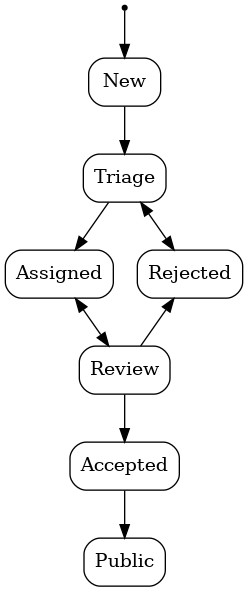
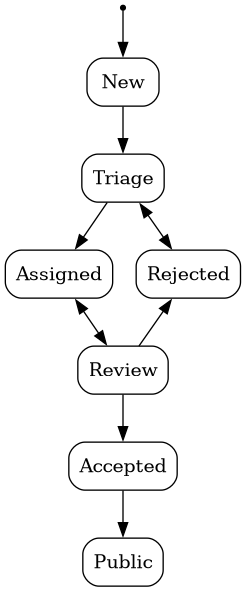
Deploy docs for main 296f7306d63a27ada3a170a480b35a1ffbeb1cee

diff --git a/main/api/satellite.html b/main/api/satellite.html
@@ -926,14 +926,14 @@ The drift is estimated from the device’s Time Drift Rate (TDR), configured thr
 
 <dl class="cpp var">
 <dt class="sig sig-object cpp" id="_CPPv4N24hubble_sat_packet_frames5frameE">
-<span id="_CPPv3N24hubble_sat_packet_frames5frameE"></span><span id="_CPPv2N24hubble_sat_packet_frames5frameE"></span><span id="hubble_sat_packet_frames::frame__hubble_sat_packet_framesA"></span><span class="target" id="structhubble__sat__packet__frames_1ac5040ad946eafb266eb444243351ed85"></span><span class="k"><span class="pre">struct</span></span><span class="w"> </span><a class="reference internal" href="#_CPPv424hubble_sat_packet_frames" title="hubble_sat_packet_frames"><span class="n"><span class="pre">hubble_sat_packet_frames</span></span></a><span class="w"> </span><span class="sig-name descname"><span class="n"><span class="pre">frame</span></span></span><span class="p"><span class="pre">[</span></span><span class="n"><span class="pre">HUBBLE_PACKET_FRAME_MAX_SIZE</span></span><span class="p"><span class="pre">]</span></span><a class="headerlink" href="#_CPPv4N24hubble_sat_packet_frames5frameE" title="Link to this definition"></a><br /></dt>
+<span id="_CPPv3N24hubble_sat_packet_frames5frameE"></span><span id="_CPPv2N24hubble_sat_packet_frames5frameE"></span><span id="hubble_sat_packet_frames::frame__hubble_sat_packet_framesA"></span><span class="target" id="structhubble__sat__packet__frames_1a3a88207f0ff45289cb355d2084c566f9"></span><span class="k"><span class="pre">struct</span></span><span class="w"> </span><a class="reference internal" href="#_CPPv424hubble_sat_packet_frames" title="hubble_sat_packet_frames"><span class="n"><span class="pre">hubble_sat_packet_frames</span></span></a><span class="w"> </span><span class="sig-name descname"><span class="n"><span class="pre">frame</span></span></span><span class="p"><span class="pre">[</span></span><span class="n"><span class="pre">HUBBLE_PACKET_FRAME_MAX_SIZE</span></span><span class="p"><span class="pre">]</span></span><a class="headerlink" href="#_CPPv4N24hubble_sat_packet_frames5frameE" title="Link to this definition"></a><br /></dt>
 <dd><p>Individual frames derived from a Hubble packet. </p>
 </dd></dl>
 
 <dl class="cpp var">
 <dt class="sig sig-object cpp" id="_CPPv4N24hubble_sat_packet_frames23total_number_of_symbolsE">
 <span id="_CPPv3N24hubble_sat_packet_frames23total_number_of_symbolsE"></span><span id="_CPPv2N24hubble_sat_packet_frames23total_number_of_symbolsE"></span><span id="hubble_sat_packet_frames::total_number_of_symbols__s"></span><span class="target" id="structhubble__sat__packet__frames_1a961dc4848ee16ea2c68e83adec9b5b2b"></span><span class="n"><span class="pre">size_t</span></span><span class="w"> </span><span class="sig-name descname"><span class="n"><span class="pre">total_number_of_symbols</span></span></span><a class="headerlink" href="#_CPPv4N24hubble_sat_packet_frames23total_number_of_symbolsE" title="Link to this definition"></a><br /></dt>
-<dd><p>Total number of symbols used. The number of frame is (int)ceil(total_number_of_symbols / HUBBLE_PACKET_FRAME_PAYLOAD_MAX_SIZE) </p>
+<dd><p>Total number of symbols used. The number of frame is (int)ceil(total_number_of_symbols / HUBBLE_PACKET_FRAME_PAYLOAD_MAX_SIZE). </p>
 </dd></dl>
 
 </div>
